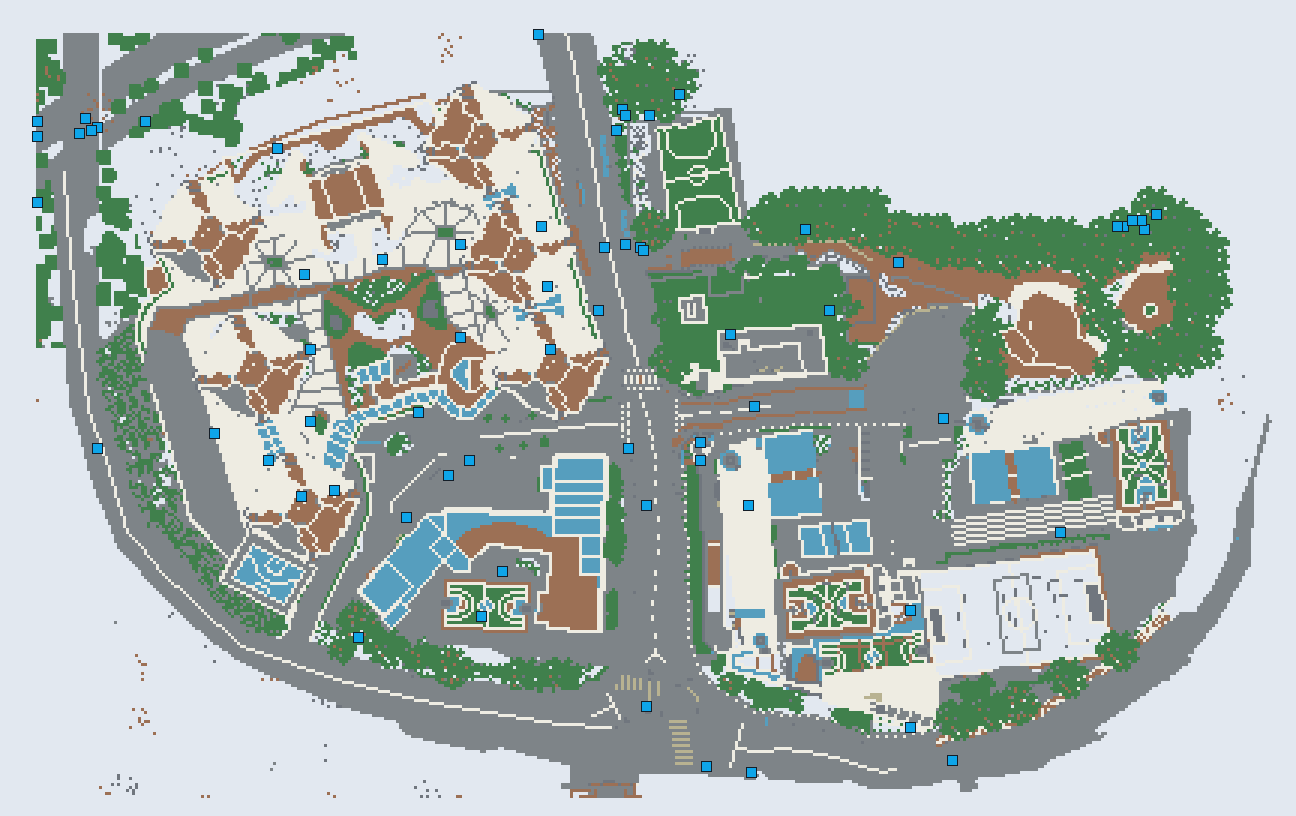
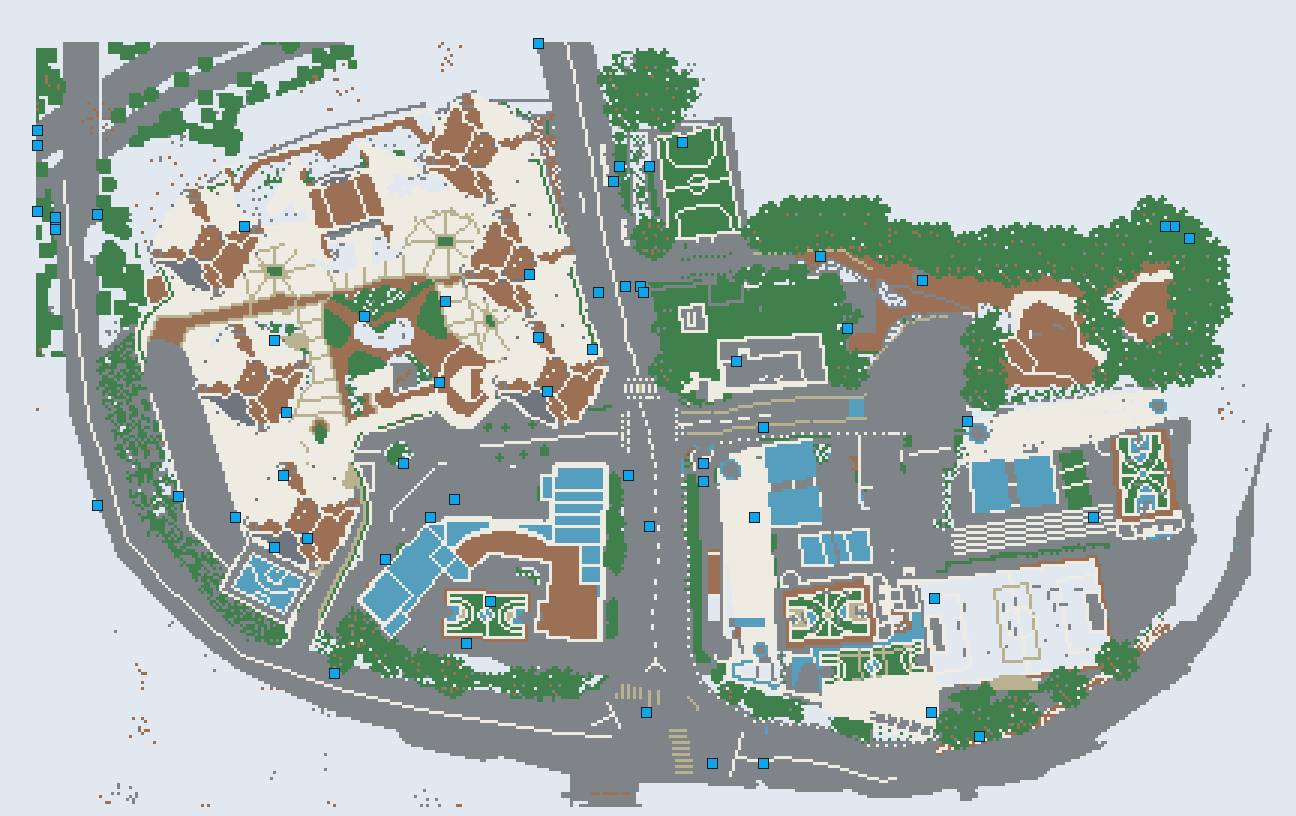
Deploying to gh-pages from @ caoyxuan/caoyxuan.github.io@f509f58175f7a1cca7c8466a2da48fc8fc05f945 🚀

Changed region(s): [[0.0, 0.0306, 0.9568, 1.0], [0.9568, 0.5208, 0.9877, 0.6127]]

diff --git a/blog/2024/tabs/index.html b/blog/2024/tabs/index.html
@@ -15,15 +15,15 @@ Content 2
 <span class="cp">{%</span><span class="w"> </span><span class="nt">endtab</span><span class="w"> </span><span class="cp">%}</span>
 
 <span class="cp">{%</span><span class="w"> </span><span class="nt">endtabs</span><span class="w"> </span><span class="cp">%}</span>
-</code></pre></div></div> <p>With this you can generate visualizations like:</p> <ul id="log" class="tab" data-tab="570cee44-c971-4213-b8ac-e3bee1709a1c" data-name="log"> <li class="active" id="log-php"> <a href="#">php </a> </li> <li id="log-js"> <a href="#">js </a> </li> <li id="log-ruby"> <a href="#">ruby </a> </li> </ul> <ul class="tab-content" id="570cee44-c971-4213-b8ac-e3bee1709a1c" data-name="log"> <li class="active"> <div class="language-php highlighter-rouge"><div class="highlight"><pre class="highlight"><code><span class="nb">var_dump</span><span class="p">(</span><span class="s1">'hello'</span><span class="p">);</span>
+</code></pre></div></div> <p>With this you can generate visualizations like:</p> <ul id="log" class="tab" data-tab="27399054-4264-4706-ac6a-26db49f66413" data-name="log"> <li class="active" id="log-php"> <a href="#">php </a> </li> <li id="log-js"> <a href="#">js </a> </li> <li id="log-ruby"> <a href="#">ruby </a> </li> </ul> <ul class="tab-content" id="27399054-4264-4706-ac6a-26db49f66413" data-name="log"> <li class="active"> <div class="language-php highlighter-rouge"><div class="highlight"><pre class="highlight"><code><span class="nb">var_dump</span><span class="p">(</span><span class="s1">'hello'</span><span class="p">);</span>
 </code></pre></div></div> </li> <li> <div class="language-javascript highlighter-rouge"><div class="highlight"><pre class="highlight"><code><span class="nx">console</span><span class="p">.</span><span class="nf">log</span><span class="p">(</span><span class="dl">"</span><span class="s2">hello</span><span class="dl">"</span><span class="p">);</span>
 </code></pre></div></div> </li> <li> <div class="language-javascript highlighter-rouge"><div class="highlight"><pre class="highlight"><code><span class="nx">pputs</span> <span class="dl">'</span><span class="s1">hello</span><span class="dl">'</span>
-</code></pre></div></div> </li> </ul> <h2 id="another-example">Another example</h2> <ul id="data-struct" class="tab" data-tab="d6174c56-3e7c-4bc7-bde2-e6783a0dc431" data-name="data-struct"> <li class="active" id="data-struct-yaml"> <a href="#">yaml </a> </li> <li id="data-struct-json"> <a href="#">json </a> </li> </ul> <ul class="tab-content" id="d6174c56-3e7c-4bc7-bde2-e6783a0dc431" data-name="data-struct"> <li class="active"> <div class="language-yaml highlighter-rouge"><div class="highlight"><pre class="highlight"><code><span class="na">hello</span><span class="pi">:</span>
+</code></pre></div></div> </li> </ul> <h2 id="another-example">Another example</h2> <ul id="data-struct" class="tab" data-tab="f137c7d4-83e8-4136-b584-c400f5c5ed50" data-name="data-struct"> <li class="active" id="data-struct-yaml"> <a href="#">yaml </a> </li> <li id="data-struct-json"> <a href="#">json </a> </li> </ul> <ul class="tab-content" id="f137c7d4-83e8-4136-b584-c400f5c5ed50" data-name="data-struct"> <li class="active"> <div class="language-yaml highlighter-rouge"><div class="highlight"><pre class="highlight"><code><span class="na">hello</span><span class="pi">:</span>
   <span class="pi">-</span> <span class="s2">"</span><span class="s">whatsup"</span>
   <span class="pi">-</span> <span class="s2">"</span><span class="s">hi"</span>
 </code></pre></div></div> </li> <li> <div class="language-json highlighter-rouge"><div class="highlight"><pre class="highlight"><code><span class="p">{</span><span class="w">
   </span><span class="nl">"hello"</span><span class="p">:</span><span class="w"> </span><span class="p">[</span><span class="s2">"whatsup"</span><span class="p">,</span><span class="w"> </span><span class="s2">"hi"</span><span class="p">]</span><span class="w">
 </span><span class="p">}</span><span class="w">
-</span></code></pre></div></div> </li> </ul> <h2 id="tabs-for-something-else">Tabs for something else</h2> <ul id="something-else" class="tab" data-tab="107a9961-567f-4e4b-986d-b5e4e551c85a" data-name="something-else"> <li class="active" id="something-else-text"> <a href="#">text </a> </li> <li id="something-else-quote"> <a href="#">quote </a> </li> <li id="something-else-list"> <a href="#">list </a> </li> </ul> <ul class="tab-content" id="107a9961-567f-4e4b-986d-b5e4e551c85a" data-name="something-else"> <li class="active"> <p>Regular text</p> </li> <li> <blockquote> <p>A quote</p> </blockquote> </li> <li> <p>Hipster list</p> <ul> <li>brunch</li> <li>fixie</li> <li>raybans</li> <li>messenger bag</li> </ul> </li> </ul> </div> </article> <br> <hr> <br> <ul class="list-disc pl-8"></ul> <h2 class="text-3xl font-semibold mb-4 mt-12">Enjoy Reading This Article?</h2> <p class="mb-2">Here are some more articles you might like to read next:</p> <li class="my-2"> <a class="text-pink-700 underline font-semibold hover:text-pink-800" href="https://blog.google/technology/ai/google-gemini-update-flash-ai-assistant-io-2024/" target="_blank" rel="external nofollow noopener">Google Gemini updates: Flash 1.5, Gemma 2 and Project Astra</a> <svg width="1rem" height="1rem" viewbox="0 0 30 30" xmlns="http://www.w3.org/2000/svg"> <path d="M17 13.5v6H5v-12h6m3-3h6v6m0-6-9 9" class="icon_svg-stroke" stroke="#999" stroke-width="1.5" fill="none" fill-rule="evenodd" stroke-linecap="round" stroke-linejoin="round"></path> </svg> </li> <li class="my-2"> <a class="text-pink-700 underline font-semibold hover:text-pink-800" href="https://medium.com/@al-folio/displaying-external-posts-on-your-al-folio-blog-b60a1d241a0a?source=rss-17feae71c3c4------2" target="_blank" rel="external nofollow noopener">Displaying External Posts on Your al-folio Blog</a> <svg width="1rem" height="1rem" viewbox="0 0 30 30" xmlns="http://www.w3.org/2000/svg"> <path d="M17 13.5v6H5v-12h6m3-3h6v6m0-6-9 9" class="icon_svg-stroke" stroke="#999" stroke-width="1.5" fill="none" fill-rule="evenodd" stroke-linecap="round" stroke-linejoin="round"></path> </svg> </li> <li class="my-2"> <a class="text-pink-700 underline font-semibold hover:text-pink-800" href="/blog/2024/photo-gallery/">a post with image galleries</a> </li> <li class="my-2"> <a class="text-pink-700 underline font-semibold hover:text-pink-800" href="/blog/2024/typograms/">a post with typograms</a> </li> <li class="my-2"> <a class="text-pink-700 underline font-semibold hover:text-pink-800" href="/blog/2024/post-citation/">a post that can be cited</a> </li> </div> </div> <footer class="fixed-bottom" role="contentinfo"> <div class="container mt-0"> © Copyright 2026 Yuxuan Cao. Powered by <a href="https://jekyllrb.com/" target="_blank" rel="external nofollow noopener">Jekyll</a> with <a href="https://github.com/alshedivat/al-folio" rel="external nofollow noopener" target="_blank">al-folio</a> theme. Hosted by <a href="https://pages.github.com/" target="_blank" rel="external nofollow noopener">GitHub Pages</a>. Photos from <a href="https://unsplash.com" target="_blank" rel="external nofollow noopener">Unsplash</a>. </div> </footer> <script src="https://cdn.jsdelivr.net/npm/jquery@3.6.0/dist/jquery.min.js" integrity="sha256-/xUj+3OJU5yExlq6GSYGSHk7tPXikynS7ogEvDej/m4=" crossorigin="anonymous"></script> <script src="/assets/js/bootstrap.bundle.min.js"></script> <script src="https://cdn.jsdelivr.net/npm/mdbootstrap@4.20.0/js/mdb.min.js" integrity="sha256-NdbiivsvWt7VYCt6hYNT3h/th9vSTL4EDWeGs5SN3DA=" crossorigin="anonymous"></script> <script defer src="https://cdn.jsdelivr.net/npm/masonry-layout@4.2.2/dist/masonry.pkgd.min.js" integrity="sha256-Nn1q/fx0H7SNLZMQ5Hw5JLaTRZp0yILA/FRexe19VdI=" crossorigin="anonymous"></script> <script defer src="https://cdn.jsdelivr.net/npm/imagesloaded@5.0.0/imagesloaded.pkgd.min.js" integrity="sha256-htrLFfZJ6v5udOG+3kNLINIKh2gvoKqwEhHYfTTMICc=" crossorigin="anonymous"></script> <script defer src="/assets/js/masonry.js?a0db7e5d5c70cc3252b3138b0c91dcaf" type="text/javascript"></script> <script defer src="https://cdn.jsdelivr.net/npm/medium-zoom@1.1.0/dist/medium-zoom.min.js" integrity="sha256-ZgMyDAIYDYGxbcpJcfUnYwNevG/xi9OHKaR/8GK+jWc=" crossorigin="anonymous"></script> <script defer src="/assets/js/zoom.js?85ddb88934d28b74e78031fd54cf8308"></script> <script src="/assets/js/no_defer.js?2781658a0a2b13ed609542042a859126"></script> <script defer src="/assets/js/common.js?e0514a05c5c95ac1a93a8dfd5249b92e"></script> <script defer src="/assets/js/copy_code.js?12775fdf7f95e901d7119054556e495f" type="text/javascript"></script> <script defer src="/assets/js/jupyter_new_tab.js?d9f17b6adc2311cbabd747f4538bb15f"></script> <script async src="https://d1bxh8uas1mnw7.cloudfront.net/assets/embed.js"></script> <script async src="https://badge.dimensions.ai/badge.js"></script> <script defer type="text/javascript" id="MathJax-script" src="https://cdn.jsdelivr.net/npm/mathjax@3.2.2/es5/tex-mml-chtml.js" integrity="sha256-MASABpB4tYktI2Oitl4t+78w/lyA+D7b/s9GEP0JOGI=" crossorigin="anonymous"></script> <script src="/assets/js/mathjax-setup.js?a5bb4e6a542c546dd929b24b8b236dfd"></script> <script defer src="https://cdnjs.cloudflare.com/polyfill/v3/polyfill.min.js?features=es6" crossorigin="anonymous"></script> <script defer src="/assets/js/progress-bar.js?2f30e0e6801ea8f5036fa66e1ab0a71a" type="text/javascript"></script> <script src="/assets/js/tabs.min.js?b8748955e1076bbe0dabcf28f2549fdc"></script> <script src="/assets/js/vanilla-back-to-top.min.js?f40d453793ff4f64e238e420181a1d17"></script> <script>
+</span></code></pre></div></div> </li> </ul> <h2 id="tabs-for-something-else">Tabs for something else</h2> <ul id="something-else" class="tab" data-tab="c1f9ec27-262a-42d5-b1e9-f8a6f0f23b0d" data-name="something-else"> <li class="active" id="something-else-text"> <a href="#">text </a> </li> <li id="something-else-quote"> <a href="#">quote </a> </li> <li id="something-else-list"> <a href="#">list </a> </li> </ul> <ul class="tab-content" id="c1f9ec27-262a-42d5-b1e9-f8a6f0f23b0d" data-name="something-else"> <li class="active"> <p>Regular text</p> </li> <li> <blockquote> <p>A quote</p> </blockquote> </li> <li> <p>Hipster list</p> <ul> <li>brunch</li> <li>fixie</li> <li>raybans</li> <li>messenger bag</li> </ul> </li> </ul> </div> </article> <br> <hr> <br> <ul class="list-disc pl-8"></ul> <h2 class="text-3xl font-semibold mb-4 mt-12">Enjoy Reading This Article?</h2> <p class="mb-2">Here are some more articles you might like to read next:</p> <li class="my-2"> <a class="text-pink-700 underline font-semibold hover:text-pink-800" href="https://blog.google/technology/ai/google-gemini-update-flash-ai-assistant-io-2024/" target="_blank" rel="external nofollow noopener">Google Gemini updates: Flash 1.5, Gemma 2 and Project Astra</a> <svg width="1rem" height="1rem" viewbox="0 0 30 30" xmlns="http://www.w3.org/2000/svg"> <path d="M17 13.5v6H5v-12h6m3-3h6v6m0-6-9 9" class="icon_svg-stroke" stroke="#999" stroke-width="1.5" fill="none" fill-rule="evenodd" stroke-linecap="round" stroke-linejoin="round"></path> </svg> </li> <li class="my-2"> <a class="text-pink-700 underline font-semibold hover:text-pink-800" href="https://medium.com/@al-folio/displaying-external-posts-on-your-al-folio-blog-b60a1d241a0a?source=rss-17feae71c3c4------2" target="_blank" rel="external nofollow noopener">Displaying External Posts on Your al-folio Blog</a> <svg width="1rem" height="1rem" viewbox="0 0 30 30" xmlns="http://www.w3.org/2000/svg"> <path d="M17 13.5v6H5v-12h6m3-3h6v6m0-6-9 9" class="icon_svg-stroke" stroke="#999" stroke-width="1.5" fill="none" fill-rule="evenodd" stroke-linecap="round" stroke-linejoin="round"></path> </svg> </li> <li class="my-2"> <a class="text-pink-700 underline font-semibold hover:text-pink-800" href="/blog/2024/photo-gallery/">a post with image galleries</a> </li> <li class="my-2"> <a class="text-pink-700 underline font-semibold hover:text-pink-800" href="/blog/2024/typograms/">a post with typograms</a> </li> <li class="my-2"> <a class="text-pink-700 underline font-semibold hover:text-pink-800" href="/blog/2024/post-citation/">a post that can be cited</a> </li> </div> </div> <footer class="fixed-bottom" role="contentinfo"> <div class="container mt-0"> © Copyright 2026 Yuxuan Cao. Powered by <a href="https://jekyllrb.com/" target="_blank" rel="external nofollow noopener">Jekyll</a> with <a href="https://github.com/alshedivat/al-folio" rel="external nofollow noopener" target="_blank">al-folio</a> theme. Hosted by <a href="https://pages.github.com/" target="_blank" rel="external nofollow noopener">GitHub Pages</a>. Photos from <a href="https://unsplash.com" target="_blank" rel="external nofollow noopener">Unsplash</a>. </div> </footer> <script src="https://cdn.jsdelivr.net/npm/jquery@3.6.0/dist/jquery.min.js" integrity="sha256-/xUj+3OJU5yExlq6GSYGSHk7tPXikynS7ogEvDej/m4=" crossorigin="anonymous"></script> <script src="/assets/js/bootstrap.bundle.min.js"></script> <script src="https://cdn.jsdelivr.net/npm/mdbootstrap@4.20.0/js/mdb.min.js" integrity="sha256-NdbiivsvWt7VYCt6hYNT3h/th9vSTL4EDWeGs5SN3DA=" crossorigin="anonymous"></script> <script defer src="https://cdn.jsdelivr.net/npm/masonry-layout@4.2.2/dist/masonry.pkgd.min.js" integrity="sha256-Nn1q/fx0H7SNLZMQ5Hw5JLaTRZp0yILA/FRexe19VdI=" crossorigin="anonymous"></script> <script defer src="https://cdn.jsdelivr.net/npm/imagesloaded@5.0.0/imagesloaded.pkgd.min.js" integrity="sha256-htrLFfZJ6v5udOG+3kNLINIKh2gvoKqwEhHYfTTMICc=" crossorigin="anonymous"></script> <script defer src="/assets/js/masonry.js?a0db7e5d5c70cc3252b3138b0c91dcaf" type="text/javascript"></script> <script defer src="https://cdn.jsdelivr.net/npm/medium-zoom@1.1.0/dist/medium-zoom.min.js" integrity="sha256-ZgMyDAIYDYGxbcpJcfUnYwNevG/xi9OHKaR/8GK+jWc=" crossorigin="anonymous"></script> <script defer src="/assets/js/zoom.js?85ddb88934d28b74e78031fd54cf8308"></script> <script src="/assets/js/no_defer.js?2781658a0a2b13ed609542042a859126"></script> <script defer src="/assets/js/common.js?e0514a05c5c95ac1a93a8dfd5249b92e"></script> <script defer src="/assets/js/copy_code.js?12775fdf7f95e901d7119054556e495f" type="text/javascript"></script> <script defer src="/assets/js/jupyter_new_tab.js?d9f17b6adc2311cbabd747f4538bb15f"></script> <script async src="https://d1bxh8uas1mnw7.cloudfront.net/assets/embed.js"></script> <script async src="https://badge.dimensions.ai/badge.js"></script> <script defer type="text/javascript" id="MathJax-script" src="https://cdn.jsdelivr.net/npm/mathjax@3.2.2/es5/tex-mml-chtml.js" integrity="sha256-MASABpB4tYktI2Oitl4t+78w/lyA+D7b/s9GEP0JOGI=" crossorigin="anonymous"></script> <script src="/assets/js/mathjax-setup.js?a5bb4e6a542c546dd929b24b8b236dfd"></script> <script defer src="https://cdnjs.cloudflare.com/polyfill/v3/polyfill.min.js?features=es6" crossorigin="anonymous"></script> <script defer src="/assets/js/progress-bar.js?2f30e0e6801ea8f5036fa66e1ab0a71a" type="text/javascript"></script> <script src="/assets/js/tabs.min.js?b8748955e1076bbe0dabcf28f2549fdc"></script> <script src="/assets/js/vanilla-back-to-top.min.js?f40d453793ff4f64e238e420181a1d17"></script> <script>
     addBackToTop();
   </script> </body> </html>

diff --git a/mcbots/index.html b/mcbots/index.html
@@ -539,7 +539,7 @@
       </section>
 
       <section class="panel map-card">
-        <img src="assets/shun-lee-clean-v3-topdown-65.png" alt="Shun Lee clean-v3 top-down map with 65 retained anchor points">
+        <img src="assets/shun-lee-clean-v3-topdown-65.png?v=20260717-v2-clean-filtered" alt="Shun Lee clean-v3 top-down map with 65 retained anchor points">
         <div>
           <div class="facts">
             <div class="fact"><strong>65</strong><span>v2 clean-filtered S1 probes</span></div>